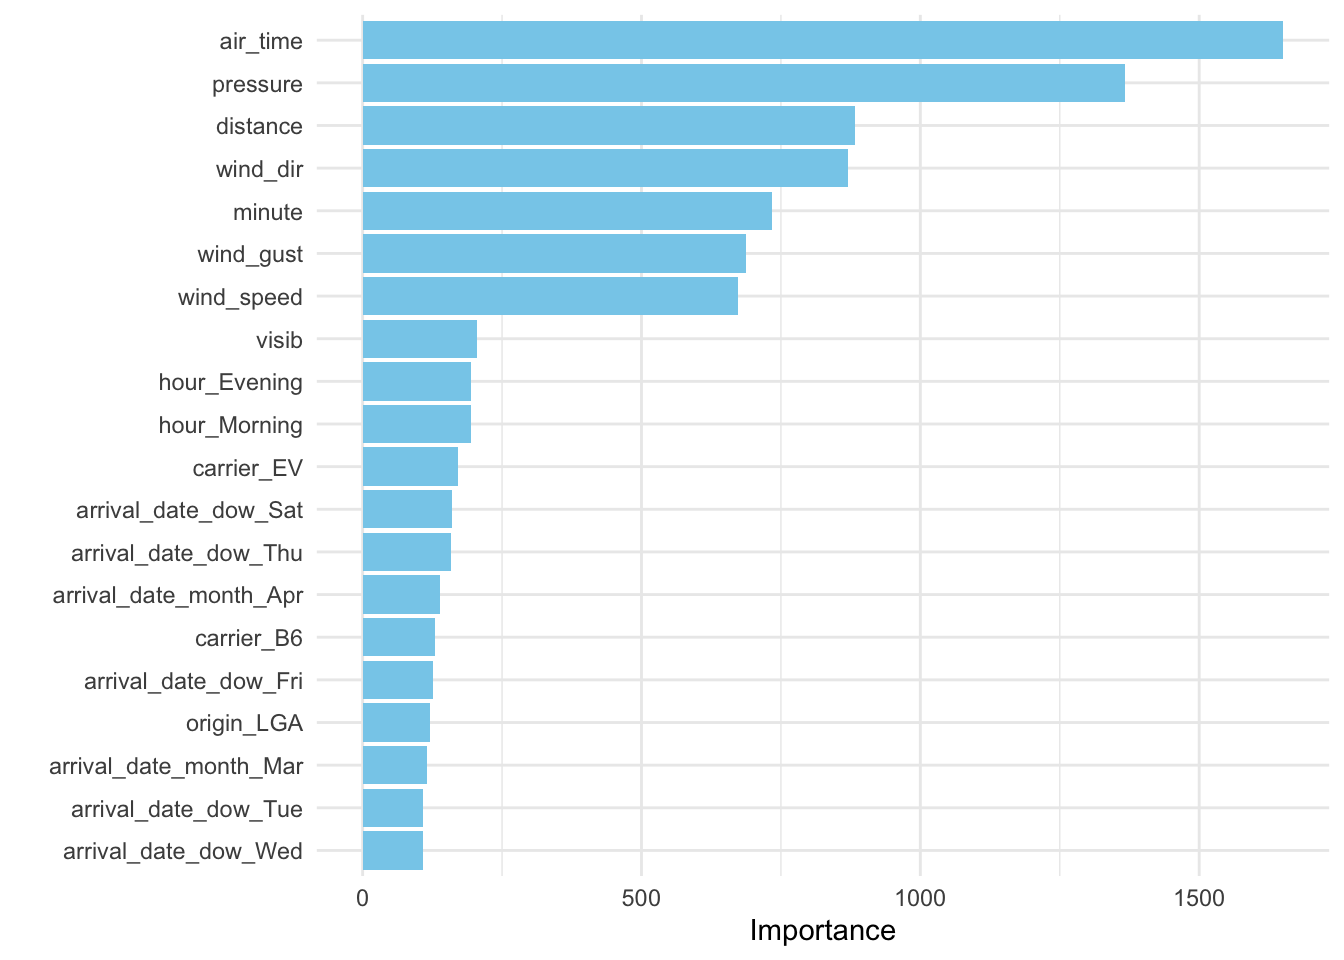
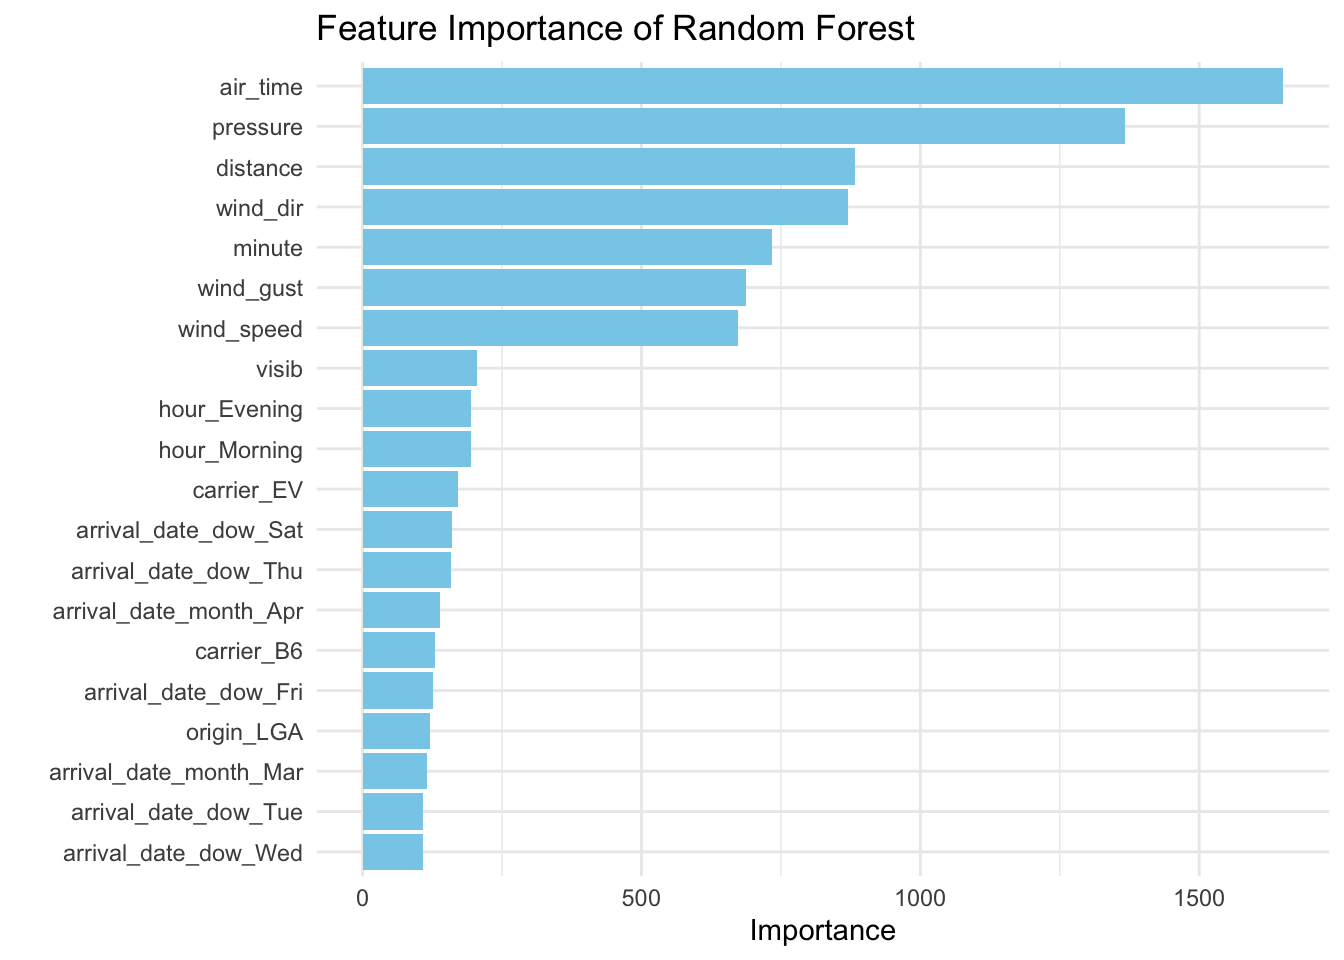
add discussion

Changed region(s): [[0.0312, 0.0, 0.9688, 0.9062]]

diff --git a/report.html b/report.html
@@ -359,6 +359,105 @@ be generalized based on the reults of the previous question. <br></p>
 </div>
 <div id="discussion" class="section level1">
 <h1>Discussion</h1>
+<p>The objective of the study was to assess the correlation between
+flight delay duration and various flight-related factors using multiple
+linear regression. Additionally, the research aimed to forecast flight
+delays by employing a machine learning framework.</p>
+<div id="variable-selection" class="section level2">
+<h2>Variable Selection</h2>
+<p>Lasso Regression and Random Forest models were employed on the 2013
+New York City flight dataset. The following plots give hints on the
+‘variable importance’. On the right is the LASSO Regression</p>
+<p><img src="image/lr_varplot.png" style="width:45.0%"
+alt="Caption for Image 1" /> <img src="image/rf_varplot.png"
+style="width:45.0%" alt="Caption for Image 2" /></p>
+</div>
+<div id="model-performance" class="section level2">
+<h2>Model Performance</h2>
+<p>2017 New York City flight dataset was used for model evaluation.
+Notably, the Random Forest model exhibited superior performance across a
+majority of evaluation metrics.</p>
+<table>
+<colgroup>
+<col width="11%" />
+<col width="7%" />
+<col width="7%" />
+<col width="9%" />
+<col width="9%" />
+<col width="6%" />
+<col width="4%" />
+<col width="3%" />
+<col width="6%" />
+<col width="9%" />
+<col width="12%" />
+<col width="11%" />
+</colgroup>
+<thead>
+<tr class="header">
+<th></th>
+<th>Sensitivity</th>
+<th>Specificity</th>
+<th>Pos Pred Value</th>
+<th>Neg Pred Value</th>
+<th>Precision</th>
+<th>Recall</th>
+<th>F1</th>
+<th>Prevalence</th>
+<th>Detection Rate</th>
+<th>Detection Prevalence</th>
+<th>Balanced Accuracy</th>
+</tr>
+</thead>
+<tbody>
+<tr class="odd">
+<td>Logistic</td>
+<td>0.880</td>
+<td>0.470</td>
+<td>0.759</td>
+<td>0.673</td>
+<td>0.759</td>
+<td>0.880</td>
+<td>0.815</td>
+<td>0.655</td>
+<td>0.577</td>
+<td>0.760</td>
+<td>0.675</td>
+</tr>
+<tr class="even">
+<td>RF</td>
+<td>0.971</td>
+<td>0.710</td>
+<td>0.864</td>
+<td>0.928</td>
+<td>0.864</td>
+<td>0.971</td>
+<td>0.915</td>
+<td>0.655</td>
+<td>0.637</td>
+<td>0.736</td>
+<td>0.841</td>
+</tr>
+</tbody>
+</table>
+<p>Random Forest might outperform Lasso Regression in predicting flight
+delays for several reasons:</p>
+<ul>
+<li><p>Handling Non-linearity: Flight delay prediction is likely
+influenced by a combination of linear and non-linear factors. RF, being
+a non-linear model, can handle complex relationships and interactions
+more effectively than LR, which assumes a linear relationship between
+the predictors and the response variable.</p></li>
+<li><p>Feature Importance: RF inherently assesses the importance of
+different features in making predictions. This feature importance can be
+beneficial in scenarios where certain variables play a more crucial role
+in determining outcomes, and RF can adapt to this by giving more weight
+to those features. LR, while performing feature selection by shrinking
+some coefficients to zero, might not capture non-linear relationships or
+account for intricate feature interactions as comprehensively.</p></li>
+<li><p>Robustness to Outliers: RF is generally more robust to outliers
+and noisy data compared to LR.</p></li>
+</ul>
+</div>
 </div>
 
 

diff --git a/Prediction_v2.html b/Prediction_v2.html
@@ -421,11 +421,13 @@ coeff &lt;- tidy(lr_final) %&gt;%
 <pre class="r"><code>ggplot(coeff, aes(x = reorder(term,estimate), y = estimate)) + 
    geom_col(fill = &#39;skyblue&#39;) + coord_flip()+
   geom_text(aes(label = round(estimate,2)))+
-  xlab(&#39;Predictors&#39;)+
-  ylab(&#39;Estimate&#39;)+
   theme_minimal()+
-  theme(legend.position = &quot;none&quot;)</code></pre>
+  theme(legend.position = &quot;none&quot;) +  
+  labs(title = &quot;Feature Estimate of LASSO Regression&quot;,
+       x = &#39;Predictors&#39;,
+       y = &#39;Estimate&#39;)</code></pre>
 <p><img src="Prediction_v2_files/figure-html/print%20the%20estimate-1.png" width="672" style="display: block; margin: auto;" /></p>
+<pre class="r"><code>#ggsave(&#39;image/lr_varplot.png&#39;)</code></pre>
 </div>
 <div id="random-forest" class="section level2">
 <h2>Random Forest</h2>
@@ -494,9 +496,11 @@ last_rf_fit &lt;- readRDS(&quot;Prediction_Env/last_rf_fit.rds&quot;)
 last_rf_fit %&gt;% 
   extract_fit_parsnip() %&gt;% 
   vip(num_features = 20,aesthetics = list(fill = &quot;skyblue&quot;))+ 
-  theme_minimal()</code></pre>
+  theme_minimal() +  
+  labs(title = &quot;Feature Importance of Random Forest&quot;)</code></pre>
 <p><img src="Prediction_v2_files/figure-html/on%20the%20test%20set-1.png" width="672" style="display: block; margin: auto;" /></p>
-<pre class="r"><code>rf_auc = last_rf_fit %&gt;% 
+<pre class="r"><code>#ggsave(&#39;image/rf_varplot.png&#39;)
+rf_auc = last_rf_fit %&gt;% 
   collect_predictions() %&gt;% 
   roc_auc(if_delay, .pred_0) %&gt;%pull(.estimate)
 # last_rf_fit %&gt;% 
